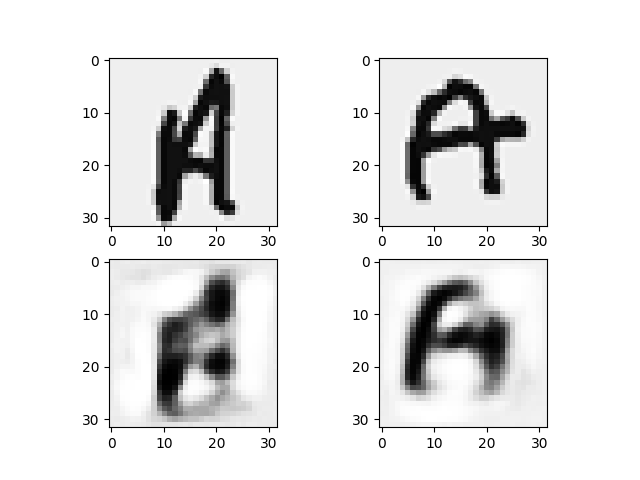
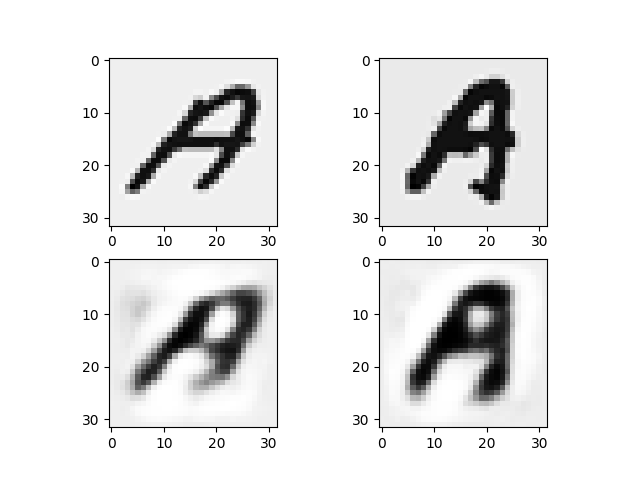
Completed Q6, visualize Q5,6 on test set

diff --git a/Assignments/HW5/python/run_q6.py b/Assignments/HW5/python/run_q6.py
@@ -7,30 +7,46 @@ from nn import *
 
 train_data = scipy.io.loadmat('../data/nist36_train.mat')
 valid_data = scipy.io.loadmat('../data/nist36_valid.mat')
-
-# we don't need labels now!
+test_data = scipy.io.loadmat('../data/nist36_test.mat')
 train_x = train_data['train_data']
 valid_x = valid_data['valid_data']
+test_x = test_data['test_data']
 
 dim = 32
-# do PCA
-U, S, V = np.linalg.svd(train_x.T)
+
+# Standardize data
+# train_x -= np.mean(train_x)
+# valid_x -= np.mean(valid_x)
+
+# Do PCA
+U, S, V = np.linalg.svd(train_x, full_matrices=False)
 
 # Rebuild a low-rank version
-lrank = np.dot(train_x, U[:, :dim])
+lrank = np.diag(S)[:dim, :dim] @ V[:dim, :]
+print(lrank.shape)
 
 # Rebuild it
-recon = lrank @ U[:, :dim].T
+recon = U[:, :dim] @ lrank
 
-for i in range(5):
-    plt.subplot(2, 1, 1)
-    plt.imshow(train_x[i].reshape(32, 32).T)
-    plt.subplot(2, 1, 2)
-    plt.imshow(recon[i].reshape(32, 32).T)
+# Build valid dataset
+recon_test = test_x @ V[:dim, :].T @ V[:dim, :]
+
+# Visualize results on test dataset
+indices = [0, 1, 300, 301, 1000, 1001, 1300, 1301, 1700, 1701]
+fig, ax = plt.subplots(2, 2, sharex=True, sharey=True)
+for i in range(0, 10, 2):
+    plt.subplot(2, 2, 1)
+    plt.imshow(test_x[indices[i]].reshape(32, 32).T, cmap='gray')
+    plt.subplot(2, 2, 3)
+    plt.imshow(recon_test[indices[i]].reshape(32, 32).T, cmap='gray')
+    plt.subplot(2, 2, 2)
+    plt.imshow(test_x[indices[i+1]].reshape(32, 32).T, cmap='gray')
+    plt.subplot(2, 2, 4)
+    plt.imshow(recon_test[indices[i+1]].reshape(32, 32).T, cmap='gray')
     plt.show()
 
-# build valid dataset
-recon_valid = valid_x.dot(U[:, :dim]) @ U[:, :dim].T
+# Build valid dataset
+recon_valid = valid_x @ V[:dim, :].T @ V[:dim, :]
 
 total = []
 for pred, gt in zip(recon_valid, valid_x):

diff --git a/Assignments/HW5/python/run_q5.py b/Assignments/HW5/python/run_q5.py
@@ -8,8 +8,10 @@ from nn import *
 # Load data
 train_data = scipy.io.loadmat('../data/nist36_train.mat')
 valid_data = scipy.io.loadmat('../data/nist36_valid.mat')
+test_data = scipy.io.loadmat('../data/nist36_test.mat')
 train_x = train_data['train_data']
 valid_x = valid_data['valid_data']
+test_x = test_data['test_data']
 
 # Hyperparameters
 max_iters = 100
@@ -71,8 +73,8 @@ for itr in range(max_iters):
         learning_rate *= momentum
 
 # Q5.3.1
-indices = [0, 1, 1000, 1001, 3000, 3001, 5000, 5001, 7000, 7001]
-h1 = forward(train_x[indices], params, 'layer1', relu)
+indices = [0, 1, 300, 301, 1000, 1001, 1300, 1301, 1700, 1701]
+h1 = forward(test_x[indices], params, 'layer1', relu)
 h2 = forward(h1, params, 'hidden', relu)
 h3 = forward(h2, params, 'hidden2', relu)
 out = forward(h3, params, 'output', sigmoid)
@@ -81,11 +83,11 @@ out = forward(h3, params, 'output', sigmoid)
 fig, ax = plt.subplots(2, 2, sharex=True, sharey=True)
 for i in range(0, 10, 2):
     plt.subplot(2, 2, 1)
-    plt.imshow(train_x[indices[i]].reshape(32, 32).T, cmap='gray')
+    plt.imshow(test_x[indices[i]].reshape(32, 32).T, cmap='gray')
     plt.subplot(2, 2, 3)
     plt.imshow(out[i].reshape(32, 32).T, cmap='gray')
     plt.subplot(2, 2, 2)
-    plt.imshow(train_x[indices[i+1]].reshape(32, 32).T, cmap='gray')
+    plt.imshow(test_x[indices[i+1]].reshape(32, 32).T, cmap='gray')
     plt.subplot(2, 2, 4)
     plt.imshow(out[i+1].reshape(32, 32).T, cmap='gray')
     plt.show()
@@ -95,6 +97,7 @@ plt.plot(np.arange(max_iters), all_loss)
 plt.title('Training Loss Curve')
 plt.xlabel('Epochs')
 plt.ylabel('Total Loss')
+plt.grid()
 plt.show()
 
 # Q5.3.2
